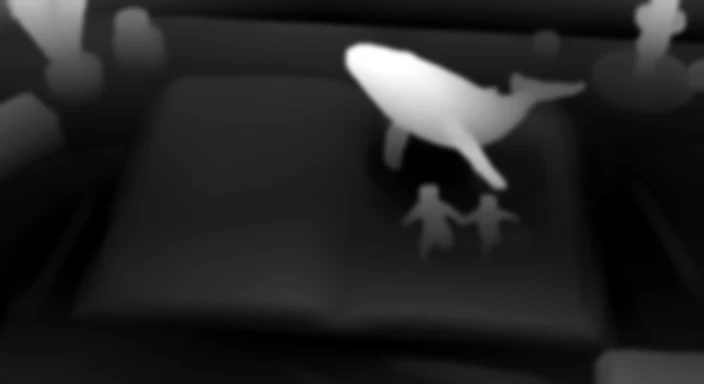
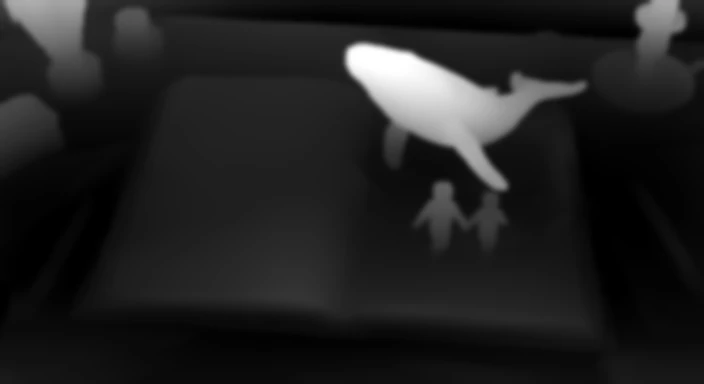
Upside-Down World: split p10 into the whale flip (new picture, whale rolls, kids run) and a new p11 where the whale sings (music-note ribbon swells and drifts); 2x upscale
Claude-Session: https://claude.ai/code/session_01BFtifSTdmWYaAK88ECs5PE

diff --git a/books/upside-down-world/sprite.js b/books/upside-down-world/sprite.js
@@ -1,2 +1,2 @@
 /* flying objects drawn over a still page: img = transparent sprite, rs = ball radius in the sprite, path = [x,y,radius] per frame at 24 fps in 1408x768 picture pixels */
-window.SPRITES={p01:{img:"img/p01-ball.webp",size:260,rs:104.5,path:[[951.0,390.0,18.5],[946.4,377.6,21.9],[944.8,373.2,22.6],[941.8,364.8,24.4],[938.6,356.8,26.0],[935.2,349.1,27.6],[931.6,342.1,29.2],[927.9,335.5,30.7],[923.8,329.1,32.0],[919.7,322.8,33.5],[915.7,316.9,34.9],[911.8,311.1,36.2],[907.8,305.5,37.6],[903.9,300.1,38.9],[899.8,295.1,40.2],[895.8,290.0,41.2],[891.4,285.1,42.2],[887.2,280.3,43.2],[882.9,275.7,44.3],[878.9,271.0,45.3],[874.9,266.6,46.5],[871.2,262.1,47.8],[867.5,257.7,49.1],[863.9,253.4,50.5],[860.2,249.1,51.8],[856.2,244.7,53.0],[852.4,240.6,54.2],[848.3,236.6,55.3],[843.9,232.6,56.5],[839.6,228.6,57.6],[835.4,224.8,58.6],[830.9,221.0,59.7],[826.3,217.3,60.7],[821.9,213.7,61.5],[817.4,210.1,62.4],[812.8,206.8,63.6],[808.1,203.5,64.5],[803.4,200.3,65.6],[798.8,196.9,66.6],[794.1,193.7,67.7],[789.4,190.4,68.8],[784.8,187.1,70.0],[780.1,183.8,71.3],[775.3,180.6,72.7],[770.3,177.4,74.1],[765.1,174.3,75.5],[759.8,171.1,77.0],[754.7,167.8,78.5],[749.2,164.6,80.0],[743.7,161.4,81.3],[738.1,157.9,82.7],[732.6,154.6,84.0]]},p02:{img:"img/p01-ball.webp",size:260,rs:104.5,kind:"lob",from:[1008,538,9],to:[1040,212,4.2],apex:170,rig:[{img:"img/p02-leg.webp",box:[960,515,60,60],pivot:[987,531],depth:[988,545],motion:"leg"}]},p03:{rig:[{img:"img/p03-leo.webp",box:[906,462,52,56],pivot:[932,504],depth:[932,495],motion:"headL"},{img:"img/p03-sam.webp",box:[946,475,52,56],pivot:[972,515],depth:[972,505],motion:"headS"}]},p03s:{img:"img/p01-ball.webp",size:260,rs:104.5,kind:"hops",ground:true,rest:1.6,start:[920.3,488.6,14.5],du:[1.25,.42,.3],grow:.5,bend:-62,hops:[[896,197,9.5,175],[892,187,8.5,15],[879,181,7.5,6]],to:[879,181,7.5]},p03t:{rig:[{img:"img/p03-turn.webp",box:[888,468,114,140],pivot:[945,538],depth:[945,540],motion:"turn"}]},p05p:{rig:[{img:"img/p05-point.webp",box:[884,452,118,156],pivot:[943,530],depth:[943,540],motion:"point2"}]},p06k:{rig:[{img:"img/p06-k0.webp",box:[878,423,80,114],pivot:[918.4,478.3],depth:[918.4,508.3],motion:"kf0"},{img:"img/p06-k1.webp",box:[866,417,97,111],pivot:[915.3,473.5],depth:[915.3,503.5],motion:"kf1"},{img:"img/p06-k2.webp",box:[874,472,99,116],pivot:[921.4,531.8],depth:[921.4,561.8],motion:"kf2"}]},p07k:{rig:[{img:"img/p07-kids.webp",box:[859.6,324.2,83.1,120.1],pivot:[910,404],depth:[910,395],motion:"walk7"}]},p08k:{rig:[{img:"img/p08-k1.webp",box:[750,272,339.5,323],pivot:[920,590],depth:[920,560],motion:"p8a"},{img:"img/p08-k2.webp",box:[781,272,283.5,323],pivot:[920,590],depth:[920,560],motion:"p8b"}]},p09k:{rig:[{img:"img/p09-wave.webp",box:[868,430,152,180],pivot:[944,520],depth:[944,540],motion:"p9"}]}};
+window.SPRITES={p01:{img:"img/p01-ball.webp",size:260,rs:104.5,path:[[951.0,390.0,18.5],[946.4,377.6,21.9],[944.8,373.2,22.6],[941.8,364.8,24.4],[938.6,356.8,26.0],[935.2,349.1,27.6],[931.6,342.1,29.2],[927.9,335.5,30.7],[923.8,329.1,32.0],[919.7,322.8,33.5],[915.7,316.9,34.9],[911.8,311.1,36.2],[907.8,305.5,37.6],[903.9,300.1,38.9],[899.8,295.1,40.2],[895.8,290.0,41.2],[891.4,285.1,42.2],[887.2,280.3,43.2],[882.9,275.7,44.3],[878.9,271.0,45.3],[874.9,266.6,46.5],[871.2,262.1,47.8],[867.5,257.7,49.1],[863.9,253.4,50.5],[860.2,249.1,51.8],[856.2,244.7,53.0],[852.4,240.6,54.2],[848.3,236.6,55.3],[843.9,232.6,56.5],[839.6,228.6,57.6],[835.4,224.8,58.6],[830.9,221.0,59.7],[826.3,217.3,60.7],[821.9,213.7,61.5],[817.4,210.1,62.4],[812.8,206.8,63.6],[808.1,203.5,64.5],[803.4,200.3,65.6],[798.8,196.9,66.6],[794.1,193.7,67.7],[789.4,190.4,68.8],[784.8,187.1,70.0],[780.1,183.8,71.3],[775.3,180.6,72.7],[770.3,177.4,74.1],[765.1,174.3,75.5],[759.8,171.1,77.0],[754.7,167.8,78.5],[749.2,164.6,80.0],[743.7,161.4,81.3],[738.1,157.9,82.7],[732.6,154.6,84.0]]},p02:{img:"img/p01-ball.webp",size:260,rs:104.5,kind:"lob",from:[1008,538,9],to:[1040,212,4.2],apex:170,rig:[{img:"img/p02-leg.webp",box:[960,515,60,60],pivot:[987,531],depth:[988,545],motion:"leg"}]},p03:{rig:[{img:"img/p03-leo.webp",box:[906,462,52,56],pivot:[932,504],depth:[932,495],motion:"headL"},{img:"img/p03-sam.webp",box:[946,475,52,56],pivot:[972,515],depth:[972,505],motion:"headS"}]},p03s:{img:"img/p01-ball.webp",size:260,rs:104.5,kind:"hops",ground:true,rest:1.6,start:[920.3,488.6,14.5],du:[1.25,.42,.3],grow:.5,bend:-62,hops:[[896,197,9.5,175],[892,187,8.5,15],[879,181,7.5,6]],to:[879,181,7.5]},p03t:{rig:[{img:"img/p03-turn.webp",box:[888,468,114,140],pivot:[945,538],depth:[945,540],motion:"turn"}]},p05p:{rig:[{img:"img/p05-point.webp",box:[884,452,118,156],pivot:[943,530],depth:[943,540],motion:"point2"}]},p06k:{rig:[{img:"img/p06-k0.webp",box:[878,423,80,114],pivot:[918.4,478.3],depth:[918.4,508.3],motion:"kf0"},{img:"img/p06-k1.webp",box:[866,417,97,111],pivot:[915.3,473.5],depth:[915.3,503.5],motion:"kf1"},{img:"img/p06-k2.webp",box:[874,472,99,116],pivot:[921.4,531.8],depth:[921.4,561.8],motion:"kf2"}]},p07k:{rig:[{img:"img/p07-kids.webp",box:[859.6,324.2,83.1,120.1],pivot:[910,404],depth:[910,395],motion:"walk7"}]},p08k:{rig:[{img:"img/p08-k1.webp",box:[750,272,339.5,323],pivot:[920,590],depth:[920,560],motion:"p8a"},{img:"img/p08-k2.webp",box:[781,272,283.5,323],pivot:[920,590],depth:[920,560],motion:"p8b"}]},p09k:{rig:[{img:"img/p09-wave.webp",box:[868,430,152,180],pivot:[944,520],depth:[944,540],motion:"p9"}]},p10k:{rig:[{img:"img/p10-kids.webp",box:[800,350,240,210],pivot:[920,455],depth:[920,470],motion:"stride"},{img:"img/p10-whale.webp",box:[640,30,550,380],pivot:[905,220],depth:[905,220],motion:"flip10"}]},p11k:{rig:[{img:"img/p10-kids.webp",box:[800,350,240,210],pivot:[920,455],depth:[920,470],motion:"stride"},{img:"img/p11-song.webp",box:[23,59,1272,491],pivot:[660,300],depth:[880,180],motion:"song11"}]}};

diff --git a/books/upside-down-world/index.html b/books/upside-down-world/index.html
@@ -387,6 +387,17 @@ const MOT={
   /* page 9: the kids turn and point up at the flying fish, twice per 16 s cycle */
   p9(tt){const T=16;tt=((tt%T)+T)%T;const on=(s,e)=>tt<s||tt>e+.5?0:tt<s+.5?ease((tt-s)/.5):tt<e?1:1-ease((tt-e)/.5);
     return {dx:0,dy:0,rot:0,sx:1,sy:1,a:Math.max(on(3,7),on(10.5,14.5))};},
+  /* page 10: the whale rolls over (soft fade into its flipped pose with a little settle), kids run with alternating strides */
+  flip10(tt){const T=11;tt=((tt%T)+T)%T;let a=0,rot=0,dy=0;
+    if(tt>=2.5&&tt<3.05){const u=ease((tt-2.5)/.55);a=u;rot=-.06*(1-u);dy=10*(1-u);}
+    else if(tt>=3.05&&tt<7.2){a=1;dy=Math.sin((tt-3.05)*1.6)*2.2;}
+    else if(tt>=7.2&&tt<7.9){const u=ease((tt-7.2)/.7);a=1-u;rot=.04*u;dy=-6*u;}
+    return {dx:0,dy,rot,sx:1,sy:1,a};},
+  stride(tt){const P=1.3,x=((tt%P)+P)%P/P,tri=x<.5?x*2:2-x*2;return {dx:0,dy:0,rot:0,sx:1,sy:1,a:ease(Math.min(1,Math.max(0,(tri-.2)/.6)))};},
+  /* page 11: the whale opens its mouth and the ribbon of music notes swells out, drifts, then fades */
+  song11(tt){const T=12;tt=((tt%T)+T)%T;let a=0;
+    if(tt>=1&&tt<2.4)a=ease((tt-1)/1.4);else if(tt>=2.4&&tt<8.5)a=1;else if(tt>=8.5&&tt<10)a=1-ease((tt-8.5)/1.5);
+    return {dx:Math.sin(tt*.7)*2.5*a,dy:Math.sin(tt*1.1)*2*a,rot:0,sx:1,sy:1,a};},
   hide(tt){const T=16;tt=((tt%T)+T)%T;const S=7.0,E=11.6+.85;return {dx:0,dy:0,rot:0,sx:1,sy:1,a:Math.max(0,Math.min(1,(tt-S)/.12,(E-tt)/.12))};},
   head(tt,dir,lag){const T=16;tt=((tt-lag)%T+T)%T;let k=0;
     if(tt>=.8&&tt<1.9)k=ease((tt-.8)/1.1);else if(tt>=1.9&&tt<4.8)k=1;else if(tt>=4.8&&tt<5.9)k=1-ease((tt-4.8)/1.1);
@@ -397,7 +408,7 @@ function drawRig(c,d,L,now,dt,w,h,t,ps,o){
   const p=L._p,dim=p.fx==='shade'?dimS:0;
   (d.rig||[]).forEach(r=>{if(!r.im||!r.im.complete||!r.im.naturalWidth)return;
     const tt=reduce?0:(now-pageT0)/1000;
-    const M=r.motion==='p9'?MOT.p9(tt):r.motion==='p8a'?MOT.p8(tt,1):r.motion==='p8b'?MOT.p8(tt,2):r.motion==='walk7'?MOT.walk7(tt):r.motion&&r.motion.startsWith('kf')?MOT.kf(tt,+r.motion[2]):r.motion==='point2'?MOT.point2(tt):r.motion==='point'?MOT.point(tt):r.motion==='hide'?MOT.hide(tt):r.motion==='turn'?MOT.turn(tt):r.motion==='leg'?MOT.leg(tt):r.motion==='headL'?MOT.head(tt,1,0):MOT.head(tt,-1,.18);
+    const M=r.motion==='flip10'?MOT.flip10(tt):r.motion==='stride'?MOT.stride(tt):r.motion==='song11'?MOT.song11(tt):r.motion==='p9'?MOT.p9(tt):r.motion==='p8a'?MOT.p8(tt,1):r.motion==='p8b'?MOT.p8(tt,2):r.motion==='walk7'?MOT.walk7(tt):r.motion&&r.motion.startsWith('kf')?MOT.kf(tt,+r.motion[2]):r.motion==='point2'?MOT.point2(tt):r.motion==='point'?MOT.point(tt):r.motion==='hide'?MOT.hide(tt):r.motion==='turn'?MOT.turn(tt):r.motion==='leg'?MOT.leg(tt):r.motion==='headL'?MOT.head(tt,1,0):MOT.head(tt,-1,.18);
     const rl=depthAt(p.img,r.depth[0],r.depth[1]),qx=r.pivot[0]/W,qy=r.pivot[1]/H,s2=shiftAt(qx,qy,rl,t),
       px=(o[0]+(qx-o[0])*curS+s2[0])*w,py=(o[1]+(qy-o[1])*curS+s2[1])*h;
     const sh=sm3(.30,.40,qx)*sm3(.97,.90,qx)*sm3(.95,.85,qy)*rl*(.055*Math.sin(t*1.6+qx*13+qy*6)+.035*Math.sin(t*2.7-qy*17)),f=(1+sh)*(1-dim*.25);

diff --git a/books/upside-down-world/story.js b/books/upside-down-world/story.js
@@ -27,8 +27,9 @@ window.STORY={title:"The Upside-Down World",author:"M. A. Mafodh",pages:[
  "But the real shock was what was flying through the blue-sun sky. Fish. Not just little fish, but huge shimmering ones with rainbow fins, flapping their tails as they soared through the air like birds.",
  "And leading them, so big it blocked out the blue sun for a moment as it passed, was a giant whale. Its tail wasn't just one color, but a swirl of every color imaginable, like a painter's swirl of all the paints in the world.",
  "Sam's jaw dropped open. \"Leo... the fish are flying!\" Leo just stared, speechless. He pinched his arm. It hurt. This was real."]},
-{img:"p09",box:[300,462,700,600],song:[0,1],parts:[
- "Suddenly, the great whale flipped, its multicolored tail sending ripples through the air.",
+{img:"p09",sprite:"p10k",swirl:[1090,85,.004,.12],dust:true,box:[362,185,700,295],parts:[
+ "Suddenly, the great whale flipped, its multicolored tail sending ripples through the air."]},
+{img:"p09",sprite:"p11k",swirl:[1090,85,.004,.12],dust:true,box:[300,466,712,588],parts:[
  "It opened its giant mouth and a sound came out, not a roar, but a deep, melodic song that sounded like bells and waves all mixed together.",
  "That was it. That was too much. Leo grabbed Sam's hand. \"We have to go. Now!\"",
  "\"But the whale!\" Sam cried, trying to pull back. \"NOW, Sam!\" Leo yanked him toward the glowing tunnel they had come from.",
